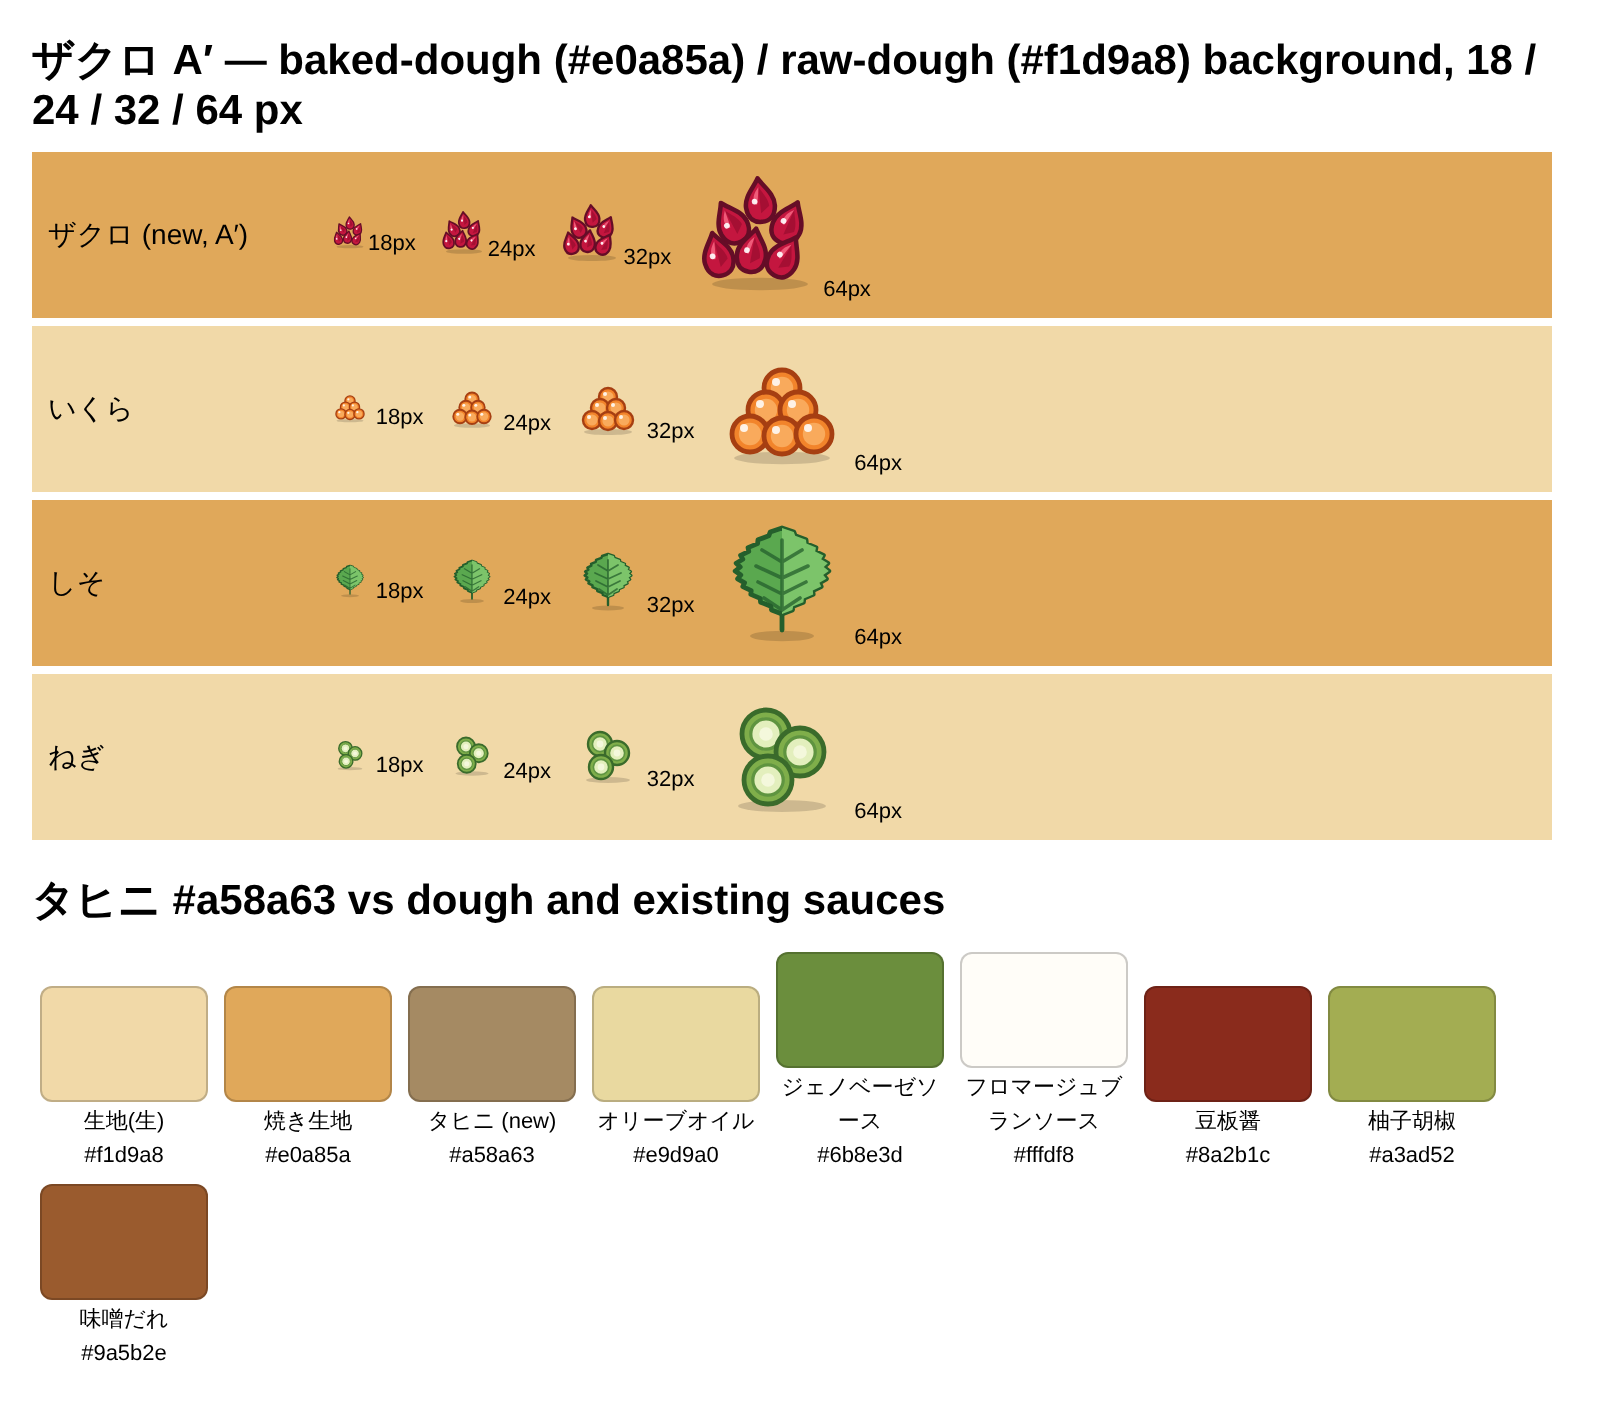
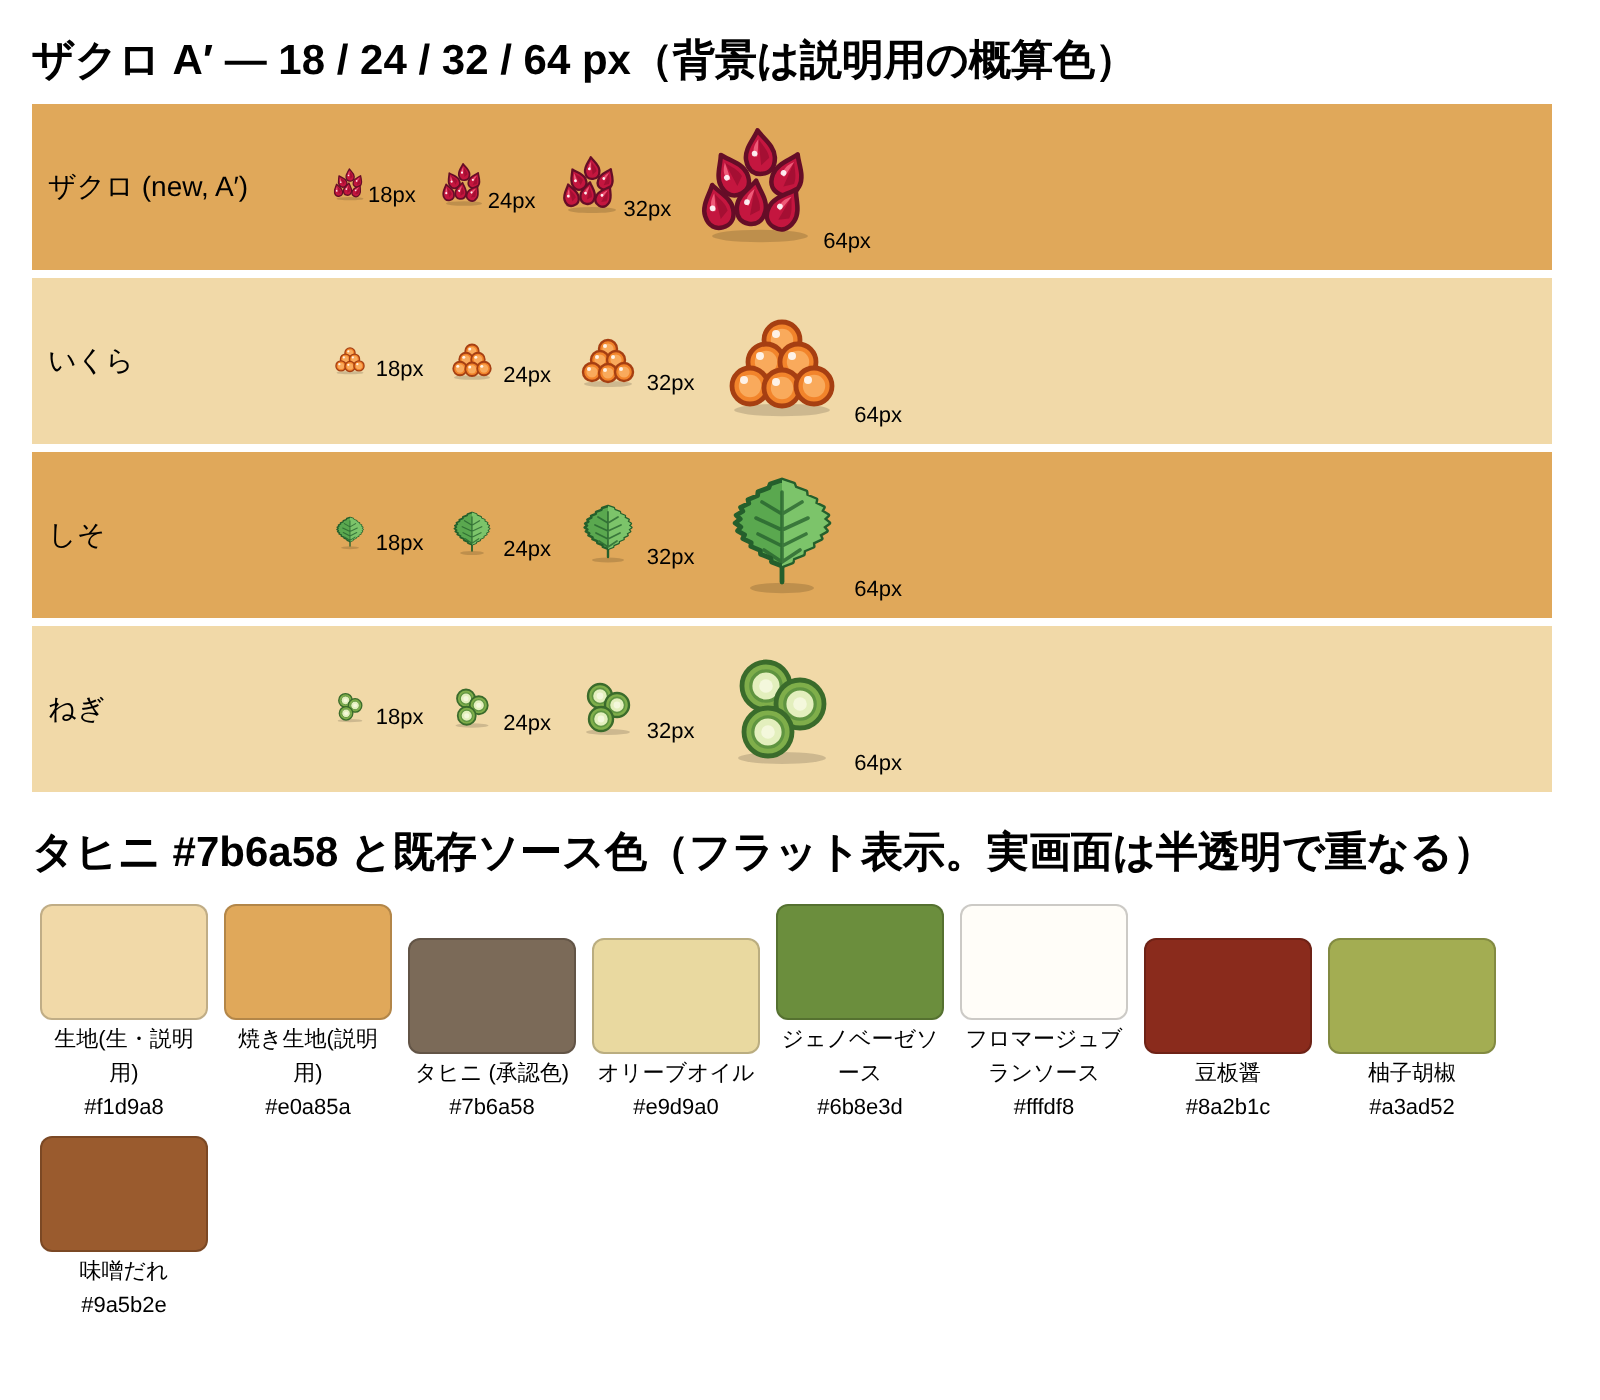
fix(new-sauces): U3 tahini colour #a58a63 -> #7b6a58 (Owner-approved after PR #673 HV)
Owner HV found the tahini paint hard to tell from the dough. Measured on the real
render (same stroke, same bake): #a58a63 is only dE ~17-18 from the bare dough;
#7b6a58 is ~27-29 (miso-sauce / olive-oil level) and stays distinct from miso in hue.
Colour constant only: pomegranate size, parsley, discovery rules, scoring, sauce
thresholds and floors are unchanged. Colour pin, Result report (section 6b) and
screenshots updated.

Claude-Session: https://claude.ai/code/session_01DzqcsQpBncyUsh6NSwSgh1

diff --git a/src/data/lateCatalog.tahini.test.ts b/src/data/lateCatalog.tahini.test.ts
@@ -23,7 +23,7 @@ import { toppingSizeClass } from "./toppingSizeClass";
 
 /**
  * New Sauces Phase B U3 (Issue #578, Owner 2026-10-26): `eggplant-tahini-pizza` + `tahini` + `pomegranate`, a LATE-catalog recipe (the pomegranate scattered after the bake in FINISH, the parsley placed before it) with two
- * late-only materials. The tahini PAINT-before-bake, the eggplant without pre-cooking, the parsley before the bake, the pomegranate AFTER the bake, every count and the tahini colour `#a58a63` are GAMEPLAY ASSUMPTIONS /
+ * late-only materials. The tahini PAINT-before-bake, the eggplant without pre-cooking, the parsley before the bake, the pomegranate AFTER the bake, every count are GAMEPLAY ASSUMPTIONS /
  * PROVISIONAL (the original page was not confirmed), pinned here only as the shipped data. The late step number is always derived from the ladder; the entitlement floor is a FIXED constant.
  */
 const TAHINI_PIZZA = "eggplant-tahini-pizza" as RecipeId;
@@ -88,9 +88,9 @@ describe("the shipped data (late catalog ON, as in Production)", () => {
     expect(getRecipe(TAHINI_PIZZA)!.description).not.toMatch(/焼成|焼き上|焼いた|あと|仕上げ|後乗せ|振り/);
   });
 
-  it("tahini: a late-only finite sauce (spread, ladder-gated, no topping family), provisional colour #a58a63", () => {
+  it("tahini: a late-only finite sauce (spread, ladder-gated, no topping family), Owner-approved colour #7b6a58", () => {
     const ingredient = getIngredient(SAUCE)!;
-    expect(ingredient).toMatchObject({ category: "sauce", placement: "spread", color: "#a58a63", nameJa: "タヒニ" });
+    expect(ingredient).toMatchObject({ category: "sauce", placement: "spread", color: "#7b6a58", nameJa: "タヒニ" });
     expect(ingredient.unlockCondition).toBeDefined();
     expect(ingredientAttributeFamily(SAUCE)).toBeNull();
   });

diff --git a/e2e/new-sauces-u3.spec.ts b/e2e/new-sauces-u3.spec.ts
@@ -9,8 +9,8 @@ import { CATALOG_COUNTS, materialsUpTo } from "../src/logic/catalog/testSupport/
 
 /**
  * New Sauces Phase B U3 representative E2E (Issue #578; the late catalog: tahini + pomegranate -> eggplant-tahini-pizza). The tahini PAINT before the bake, the eggplant (no pre-cooking) and the parsley placed before
- * the bake, the pomegranate scattered AFTER the bake and every count are GAMEPLAY ASSUMPTIONS (the original page was not confirmed). The tahini colour `#a58a63` is PROVISIONAL until the Owner HV on a real device,
- * so the painted dough is captured. The late materials played end to end: Shop NEW (T4, 120 Pitz) and purchase of both, the single Research Entry (the label names only the cohort key; no identity leak), the SAUCE
+ * the bake, the pomegranate scattered AFTER the bake and every count are GAMEPLAY ASSUMPTIONS (the original page was not confirmed). The tahini colour `#7b6a58` is the Owner-approved colour (PR #673 HV),
+ * the painted dough is captured. The late materials played end to end: Shop NEW (T4, 120 Pitz) and purchase of both, the single Research Entry (the label names only the cohort key; no identity leak), the SAUCE
  * step painted with the existing PAINT gesture, eggplant 3 + parsley 1 (no CHEESE step: the recipe has no cheese), the bake, the pomegranate x2 placed in FINISH (its own aril art), NEW DISCOVERY and the Dex.
  * The save does not list the new step's materials: the ladder (the late step) grants them on load.
  *

diff --git a/src/data/lateCatalog.ts b/src/data/lateCatalog.ts
@@ -296,14 +296,14 @@ export const LATE_INGREDIENTS: readonly Ingredient[] = [
   },
   /**
    * New Sauces Phase B U3 (Issue #578): `tahini`, a late-only finite ladder material (T4 by its late step, no star gate; the step's first material). A spread sauce painted in the SAUCE step (the existing PAINT); sauces carry no topping family.
-   * `color` `#a58a63` (a muted grey-brown) is PROVISIONAL until the Owner HV on a real device: the first guess `#dcc7a1` was too close to the dough (and to olive-oil), see TETO_NEW-SAUCES-U3_FINAL-DESIGN-GATE_2026-10-26.md §6.
+   * `color` `#7b6a58` (a muted grey-taupe) is the Owner-approved colour (2026-10-26, PR #673 HV): the first guess `#dcc7a1` was too close to the dough (and to olive-oil), and `#a58a63` rendered only dE ~17 from the bare dough once the sauce is drawn translucent; `#7b6a58` renders dE ~27-29 (the level of the miso-sauce / olive-oil) while staying distinct in hue from the miso-sauce. See TETO_NEW-SAUCES-U3_FINAL-DESIGN-GATE_2026-10-26.md §6 and the Result report.
    * `emoji` is only the tray / shop chip fallback (G18 keeps it unique). Its PIZZA DB use (painted before the bake) is a GAMEPLAY ASSUMPTION, not confirmed by the original.
    */
   {
     id: "tahini",
     category: "sauce",
     nameJa: "タヒニ",
-    color: "#a58a63",
+    color: "#7b6a58",
     emoji: "\u{1F963}",
     placement: "spread",
     unlockCondition: { minTotalStars: 0 },

diff --git a/docs/reports/TETO_NEW-SAUCES-U3_Result.md b/docs/reports/TETO_NEW-SAUCES-U3_Result.md
@@ -10,7 +10,7 @@ Authority: Owner 承認（2026-10-26）「U3 暫定仕様」＋ `docs/design/TET
 | レシピ | `eggplant-tahini-pizza`（ナスとタヒニのピザ）、late catalog、全体 69 番目（Pinsa の前、Pinsa ON 時）、第 4 章の 33 件目 |
 | 構成（**GAMEPLAY ASSUMPTION**、原典未確認） | タヒニ 1（焼成前 **PAINT**）/ ナス 3（焼成前・事前加熱なし）/ パセリ 1（焼成前）/ ザクロ 2（**焼成後 FINISH、POST_BAKE**）。チーズなし |
 | 焼成窓・CUT | 58–78 / CUT なし。Lunch Rush・Dinner 対象外（`lunchRush:false`） |
-| 新素材 | `tahini`（タヒニ）: late 専用ソース（spread）、色 `#a58a63`（**暫定**、実機 HV で最終確認）、emoji 🥣（トレイ／ショップ用の代替のみ）。`pomegranate`（ザクロ）: late 専用トッピング（scatter）、色 `#c4163f`、family `fruit`、size class `xs`、専用描画 `pomegranate-aril`（**候補 A′**、`docs/design/references/ingredient-icons-2.0/pomegranate.svg`）、emoji 🟥（表示されない代替のみ、G18 重複なし） |
+| 新素材 | `tahini`（タヒニ）: late 専用ソース（spread）、色 `#7b6a58`（**Owner 承認 2026-10-26**、実機 HV 後に PR #673 で `#a58a63` から変更。§6b）、emoji 🥣（トレイ／ショップ用の代替のみ）。`pomegranate`（ザクロ）: late 専用トッピング（scatter）、色 `#c4163f`、family `fruit`、size class `xs`、専用描画 `pomegranate-aril`（**候補 A′**、`docs/design/references/ingredient-icons-2.0/pomegranate.svg`）、emoji 🟥（表示されない代替のみ、G18 重複なし） |
 | ladder | late step（dengaku の次）に 2 材料（tahini → pomegranate）。番号は**導出**（現在 60）、星ゲートなし、T4、credited、key-free。Research コホートの鍵は `pomegranate`（単独メンバー、既存レシピの文字は動かない） |
 | 価格・補充 | T4 規則。タヒニ 初回 120 Pitz = 10 回分、補充 60。ザクロ 初回 120 Pitz = 10 ピザ分（k=2）、補充 60 |
 | 互換下限 | `LATE_ENTITLEMENT_FLOORS` に `tahini: 60` / `pomegranate: 60` を追加。57 / 58 / 59 / 59 は**不変** |
@@ -74,11 +74,25 @@ Authority: Owner 承認（2026-10-26）「U3 暫定仕様」＋ `docs/design/TET
 | lint | `oxlint` エラーなし（既存 warning 2 件のみ） |
 | E2E（Chromium 全体、iphone-390x844） | **534 passed / 96 skipped / 0 failed / 0 flaky**。新規 `e2e/new-sauces-u3.spec.ts`（390×844 / 360×800 各 2 本）通過。末尾の `console.error` 空判定は sandbox の外部アセット 404 で**散発的に**失敗しうる（`new-sauces-u1` / `u2` は無変更の main でも同様。通過した回の方が多い） |
 
+### 6b. タヒニ色の変更（Owner HV 後、承認 2026-10-26）
+
+実機 HV で「タヒニの塗りと生地の境界が分かりにくい」との所見。ゲーム内のソースは半透明で重なるため、設計時の予測（ΔE 約 29）より低く、`#a58a63` の塗りは素の生地との差が約 17〜18 だった。同一操作（半径 25%・16 タップ、390×844、Chromium）で `ingredient.color` のみを差し替えて実画面で測定（CIE76、塗り vs 同画面の素の生地）:
+
+| | 未焼成 | 焼成後 | 味噌だれとの差（未焼成 / 焼成後） |
+|---|---|---|---|
+| 旧 `#a58a63` | 17.2 | 18.4 | 14.3 / 15.8 |
+| 案 1 `#8a7152` | 23.1 | 24.1 | 13.0 / 15.1 |
+| **案 2 `#7b6a58`（採用）** | **26.5** | **29.3** | 16.7 / 20.1 |
+| 案 3 `#6b5d4a` | 29.2 | 31.4 | 17.4 / 20.4 |
+| 参考: 味噌だれ / オリーブ油 | 27.9 / 30.4 | 26.4 / 25.4 | — |
+
+案 2 は素の生地との差が味噌だれ・オリーブ油と同等で、味噌だれとは灰みの色相で区別できる。案 3 は焼成後に濁る、案 1 は味噌だれに寄る。**変更は `lateCatalog.ts` の色定数 1 つ**（とコメント、固定値テスト、スクリーンショット）のみ。ザクロ（`xs`）・パセリ・発見条件・採点・塗布量のしきい値・floors は不変。
+
 ## 7. Human Verification（`TETO_HUMAN-VERIFICATION-POLICY.md`）
 
-- スクリーンショット（committed）: `docs/reports/screenshots/new-sauces-u3/`（390×844、Shop NEW / Research エントリ / トレイ（ソース 2 ページ目にタヒニ）/ タヒニ塗布後 / 具材後 / FINISH / FINISH ザクロ / NEW RECIPE / 図鑑）＋比較図 `u3-comparison.png`（ザクロ A′ を 18 / 24 / 32 / 64px でいくら・しそ・ねぎと並置、タヒニ `#a58a63` を既存ソース色と並置。生地色は説明用の概算値で実測ではない）。新規レシピ・新材料のため before は無い。
+- スクリーンショット（committed）: `docs/reports/screenshots/new-sauces-u3/`（390×844、Shop NEW / Research エントリ / トレイ（ソース 2 ページ目にタヒニ）/ タヒニ塗布後 / 具材後 / FINISH / FINISH ザクロ / NEW RECIPE / 図鑑）＋比較図 `u3-comparison.png`（ザクロ A′ を 18 / 24 / 32 / 64px でいくら・しそ・ねぎと並置、タヒニ `#7b6a58` を既存ソース色と並置。生地色は説明用の概算値で実測ではない）＋色比較 `u3-tahini-color-compare.png`（現行 `#a58a63` / 案 1〜3 / オリーブ油 / 味噌だれを、同一操作で未焼成・焼成後に並置）。新規レシピ・新材料のため before は無い。
 - 動画（**repository に commit しない**。Owner へ直接提出）: `u3-hv-390x844.webm`（390×844）。
-- **実機（iPhone Safari）で確認してほしいこと**: ①タヒニ `#a58a63` が生地・味噌だれ・オリーブ油と見分けられるか（Owner 方針: 最終確認は実機）、②**FINISH のザクロ 2 個**（`xs`）が焼き上がりの生地の上で読めるか、③パセリ（焼成前）の見え方、④トレイが長くなった（75 種）際の操作性、⑤チーズなしレシピで CHEESE タブをスキップする流れ。
+- **実機（iPhone Safari）で確認してほしいこと**: ①タヒニ `#7b6a58` が生地・味噌だれ・オリーブ油と見分けられるか、②**FINISH のザクロ 2 個**（`xs`）が焼き上がりの生地の上で読めるか、③パセリ（焼成前）の見え方、④トレイが長くなった（75 種）際の操作性、⑤チーズなしレシピで CHEESE タブをスキップする流れ。
 - **Owner の実機 HV は未実施。**
 
 ## 8. リスクと注意
